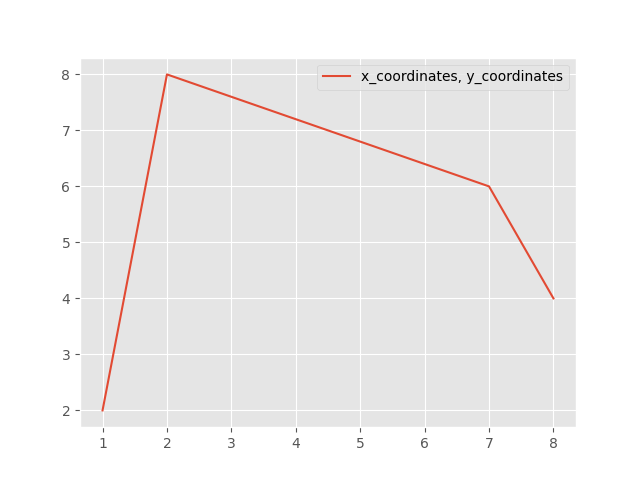
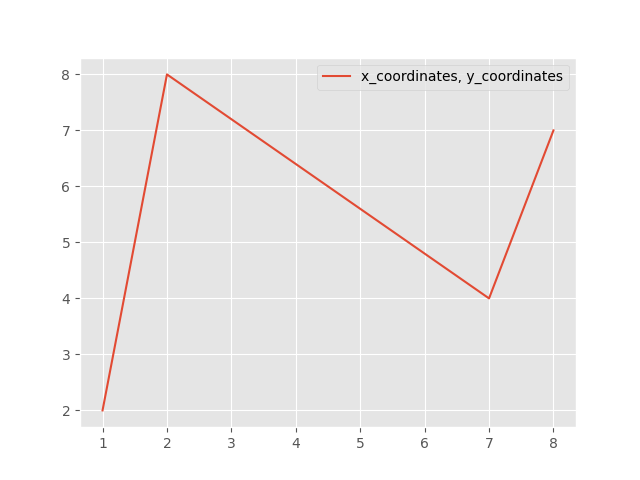
pushed from nick

diff --git a/main.py b/main.py
@@ -4,38 +4,52 @@ import matplotlib.pyplot as plt
 from matplotlib import style
 import pandas as pd
 
-#takes excel file and converts it to csv
+
+
+# takes excel file and converts it to csv
 def excelToCsv():
     df = pd.read_excel("C:\\Users\\johnd\\Downloads\\points.xlsx")
     df.to_csv('points.csv', index=None, header=True)
 
-#contos was here
-#another way of making a csv. Could be used later to manipulate points for the math conversion
-# def createCsv():
-#     header = ['x_coordinates, y_coordinates']
-#     data = [
-#     [1,2],
-#     [2,8],
-#     [7,6],
-#     [8,4]
-#     ]
-#     with open('points.csv', 'w', encoding= 'UTF8', newline = '') as f:
-#         writer = csv.writer(f)
-#         writer.writerow(header)
-#         writer.writerows(data)
-# createCsv()
 
-#Displaying the current csv
+# contos was here
+# another way of making a csv. Could be used later to manipulate points for the math conversion
+def createCsv():
+    header = ['x_coordinates, y_coordinates']
+    data = [
+        [1, 2],
+        [2, 8],
+        [7, 4],
+        [8, 7]
+    ]
+
+    with open('points.csv', 'w', encoding='UTF8', newline='') as f:
+        writer = csv.writer(f)
+        writer.writerow(header)
+        writer.writerows(data)
+createCsv()
+
+
+
+
+
+
+# Displaying the current csv
 def readCsv():
     df = pd.read_csv('points.csv')
     print(df)
+
+
 readCsv()
 
-#Displays the csv file in graph format. Also saves the graph as a .jpg
+
+# Displays the csv file in graph format. Also saves the graph as a .jpg
 def displayCsv():
     style.use('ggplot')
     df = pd.read_csv('points.csv')
     df.plot()
     plt.savefig('testplot.png')
     plt.show()
+
+
 displayCsv()

diff --git a/test_main.py b/test_main.py
@@ -8,13 +8,13 @@ class TestReadCsv(TestCase):
         self.assertFalse(readCsv() == [
             [1, 2],
             [2, 8],
-            [7, 60]
+            [7, 5]
         ])
 
 
 class Test(TestCase):
     def test_create_csv(self):
-        #from main import createCsv
+        # from main import createCsv
         try:
             'points.csv'.is_file()
         except:
@@ -24,9 +24,9 @@ class Test(TestCase):
 class TestExcelToCsv(TestCase):
     def test_excel_to_csv(self):
         from main import excelToCsv
-        self.assertFalse(excelToCsv() ==  [
-            [0,1, 1000],
-            [1,2,3],
-            [2,3,2],
-            [3,4,1]
+        self.assertFalse(excelToCsv() == [
+            [0, 1, 1000],
+            [1, 2, 3],
+            [2, 3, 2],
+            [3, 4, 1]
         ])
